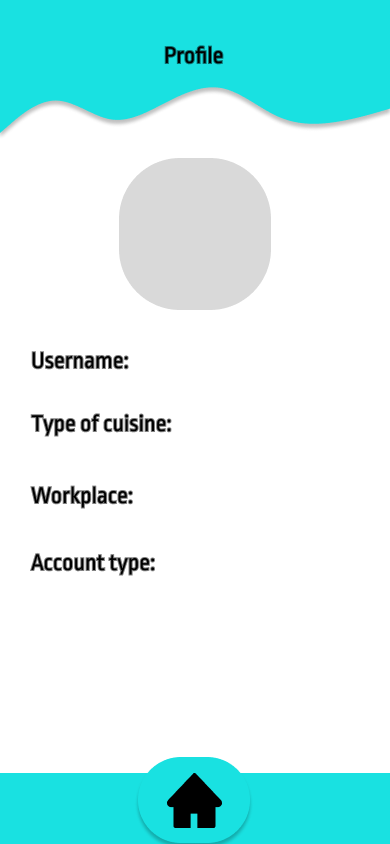
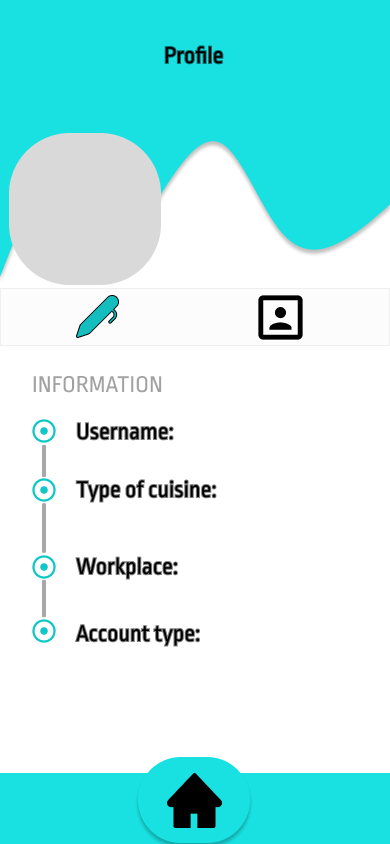
caso d'uso: fine prima parte myChef sistemazione bug profilo chef add css

Changed region(s): [[0.0, 0.0924, 1.0, 0.4621], [0.0615, 0.4929, 0.5538, 0.7701], [0.1846, 0.7393, 0.5231, 0.7701]]

diff --git a/src/main/java/com/example/foodo/guiclass/ProfileControllerGUI.java b/src/main/java/com/example/foodo/guiclass/ProfileControllerGUI.java
@@ -1,5 +1,6 @@
 package com.example.foodo.guiclass;
 
+import com.example.foodo.Main;
 import com.example.foodo.controllerappl.ProfileController;
 import com.example.foodo.engineering.Session.Session;
 import com.example.foodo.engineering.Utils.ImageConverterSupport;
@@ -21,6 +22,9 @@ import java.io.IOException;
 import java.util.Objects;
 
 public class ProfileControllerGUI {
+    public Label labelEmail;
+    public Label labelPhone;
+    public Label labelLocation;
     @FXML
     private File file = null;
     @FXML
@@ -33,6 +37,8 @@ public class ProfileControllerGUI {
     private Label labelTypeOfDiet;
     @FXML
     private Label labelAccountType;
+    private ChefBean chefBean;
+
 
     @FXML
     private Label labelWorkplace;
@@ -71,6 +77,7 @@ public class ProfileControllerGUI {
     public void setChefInfoProfile(ChefBean chefBean) throws IOException {
         ProfileController profileController = new ProfileController();
         chefBean= Session.getCurrentSession().getChefBean();
+        //System.out.print(chefBean.getEmail());
         labelUsername.setText(chefBean.getUsername());
         labelTypeOfCuisine.setText(chefBean.getTypeOfCuisine());
         labelWorkplace.setText(chefBean.getWorkplace());
@@ -82,7 +89,7 @@ public class ProfileControllerGUI {
     public void BackHome(ActionEvent event) throws IOException {
         //ProfileControllerGUI profileControllerGUI = fxmlLoader.getController();
         if((userBean= Session.getCurrentSession().getUserBean()) != null){
-            root = FXMLLoader.load(Objects.requireNonNull(getClass().getResource("/guiclass/sceneProfile")));
+            root = FXMLLoader.load(Objects.requireNonNull(getClass().getResource("/guiclass/sceneHomeUser.fxml")));
             scene = new Scene(root);
             stage = (Stage)((Node)event.getSource()).getScene().getWindow();
             stage.setScene(scene);
@@ -98,18 +105,32 @@ public class ProfileControllerGUI {
     }
 
     public void showInfo(ActionEvent event) throws IOException {
-        root = FXMLLoader.load(Objects.requireNonNull(getClass().getResource("/guiclass/sceneProfile.fxml")));
+        FXMLLoader fxmlLoader = new FXMLLoader(Main.class.getResource("/guiclass/sceneChefProfile.fxml"));
+        Parent root = fxmlLoader.load();
         scene = new Scene(root);
+        ProfileControllerGUI profileControllerGUI = fxmlLoader.getController();
+        profileControllerGUI.setChefInfoProfile(chefBean);
         stage = (Stage)((Node)event.getSource()).getScene().getWindow();
         stage.setScene(scene);
         stage.show();
     }
 
     public void showContact(ActionEvent event) throws IOException {
-        root = FXMLLoader.load(Objects.requireNonNull(getClass().getResource("/guiclass/sceneProfile2.fxml")));
+        FXMLLoader fxmlLoader = new FXMLLoader(Main.class.getResource("/guiclass/sceneProfile2.fxml"));
+        Parent root = fxmlLoader.load();
         scene = new Scene(root);
+        ProfileControllerGUI profileControllerGUI = fxmlLoader.getController();
+        profileControllerGUI.setChefInfoProfile2(chefBean);
         stage = (Stage)((Node)event.getSource()).getScene().getWindow();
         stage.setScene(scene);
         stage.show();
+    }
+
+    private void setChefInfoProfile2(ChefBean chefBean) {
+        ProfileController profileController = new ProfileController();
+        chefBean= Session.getCurrentSession().getChefBean();
+        labelEmail.setText(chefBean.getEmail());
+        labelPhone.setText(chefBean.getNumber());
+        labelLocation.setText(chefBean.getLocation());
     }
 }

diff --git a/src/main/java/com/example/foodo/guiclass/ItemControllerGUI.java b/src/main/java/com/example/foodo/guiclass/ItemControllerGUI.java
@@ -3,17 +3,29 @@ package com.example.foodo.guiclass;
 import com.example.foodo.engineering.Utils.MyListener;
 import com.example.foodo.engineering.bean.RecipeItemBean;
 import javafx.fxml.FXML;
+import javafx.fxml.FXMLLoader;
+import javafx.scene.Node;
+import javafx.scene.Parent;
+import javafx.scene.Scene;
 import javafx.scene.control.Label;
 import javafx.scene.image.Image;
 import javafx.scene.image.ImageView;
+import javafx.scene.input.MouseEvent;
+import javafx.stage.Stage;
 
-public class ItemController {
+import java.io.IOException;
+import java.util.Objects;
+
+public class ItemControllerGUI {
     @FXML
     public Label recipeNameLabel;
     @FXML
     public Label chefLabel;
     @FXML
     public ImageView img;
+    private Parent root;
+    private Stage stage;
+    private Scene scene;
 
     private RecipeItemBean recipeItemBean;
     private MyListener myListener;
@@ -27,5 +39,13 @@ public class ItemController {
         Image image = new Image(path);
         img.setImage(image);
 
+    }
+
+    public void showRecipeDet(MouseEvent event) throws IOException {
+        root = FXMLLoader.load(Objects.requireNonNull(getClass().getResource("/guiclass/recipeDet1.fxml")));
+        scene = new Scene(root);
+        stage = (Stage)((Node)event.getSource()).getScene().getWindow();
+        stage.setScene(scene);
+        stage.show();
     }
 }

diff --git a/src/main/java/com/example/foodo/engineering/bean/ChefBean.java b/src/main/java/com/example/foodo/engineering/bean/ChefBean.java
@@ -4,16 +4,47 @@ public class ChefBean {
     private String username;
     private String typeOfCuisine;
     private String workplace;
+    private String email;
+    private String number;
+    private  String location;
+
+    public String getEmail() {
+        return email;
+    }
+
+    public void setEmail(String email) {
+        this.email = email;
+    }
+
+    public String getNumber() {
+        return number;
+    }
+
+    public void setNumber(String number) {
+        this.number = number;
+    }
+
+    public String getLocation() {
+        return location;
+    }
+
+    public void setLocation(String location) {
+        this.location = location;
+    }
+
     private int profileType;
 
     public ChefBean() {}
 
 
-    public ChefBean(String username,String typeOfCuisine, String workplace, int profileType){
+    public ChefBean(String username,String typeOfCuisine, String workplace, int profileType, String email, String number, String location){
         this.username = username;
         this.typeOfCuisine = typeOfCuisine;
         this.workplace = workplace;
         this.profileType = profileType;
+        this.email = email;
+        this.number = number;
+        this.location = location;
     }
 
     public String getUsername() {

diff --git a/src/main/java/com/example/foodo/model/ChefModel.java b/src/main/java/com/example/foodo/model/ChefModel.java
@@ -3,14 +3,45 @@ package com.example.foodo.model;
 public class ChefModel extends GenericUserModel{
     String typeOfCuisine;
     String workplace;
+    String email;
+    String number;
+    String location;
+
+    public String getEmail() {
+        return email;
+    }
+
+    public void setEmail(String email) {
+        this.email = email;
+    }
+
+    public String getNumber() {
+        return number;
+    }
+
+    public void setNumber(String number) {
+        this.number = number;
+    }
+
+    public String getLocation() {
+        return location;
+    }
+
+    public void setLocation(String location) {
+        this.location = location;
+    }
+
     public ChefModel(String username){
         super(username);
 
     }
-    public ChefModel(String username, String typeOfCuisine, String workplace, int profileType){
+    public ChefModel(String username, String typeOfCuisine, String workplace, int profileType, String email, String number, String location){
         super(username,profileType);
         this.typeOfCuisine=typeOfCuisine;
         this.workplace=workplace;
+        this.email = email;
+        this.number = number;
+        this.location = location;
     }
 
     public String getTypeOfCuisine() {

diff --git a/src/main/java/com/example/foodo/guiclass/MyChefControllerGUI.java b/src/main/java/com/example/foodo/guiclass/MyChefControllerGUI.java
@@ -4,7 +4,6 @@ import com.example.foodo.controllerappl.MyChefController;
 import com.example.foodo.engineering.Utils.MyListener;
 import com.example.foodo.engineering.bean.RecipeItemBean;
 import com.example.foodo.engineering.exception.ConnectionDbException;
-import com.example.foodo.model.RecipeItemModel;
 import javafx.event.ActionEvent;
 import javafx.fxml.FXMLLoader;
 import javafx.fxml.Initializable;
@@ -17,7 +16,6 @@ import javafx.scene.layout.GridPane;
 import javafx.scene.layout.Region;
 import javafx.stage.Stage;
 
-import java.awt.*;
 import java.io.IOException;
 import java.net.URL;
 import java.sql.SQLException;
@@ -74,7 +72,7 @@ public class MyChefControllerGUI implements Initializable {
                 fxmlLoader.setLocation(getClass().getResource("/guiclass/recipeItem.fxml"));
                 AnchorPane anchorPane = fxmlLoader.load();
 
-                ItemController itemController = fxmlLoader.getController();
+                ItemControllerGUI itemController = fxmlLoader.getController();
                 itemController.setData(recipeItembeanList.get(i),myListener);
 
                 if (column == 2) {

diff --git a/src/main/java/com/example/foodo/engineering/dao/ChefDAO.java b/src/main/java/com/example/foodo/engineering/dao/ChefDAO.java
@@ -14,6 +14,9 @@ public class ChefDAO {
 
     private static final String CUISINE="typeOfCuisine";
     private static final String WORKPLACE="workplace";
+    private static final String EMAIL="email";
+    private static final String NUMBER="number";
+    private static final String LOCATION="location";
     //private static final Integer CHEFTYPE="";
 
 
@@ -52,7 +55,10 @@ public class ChefDAO {
             //int chefTypeOfUser=resultSet.getInt(CHEFTYPE);
             String typeOfCuisine=resultSet.getString(CUISINE);
             String workplace=resultSet.getString(WORKPLACE);
-            chefModel=new ChefModel(username, typeOfCuisine, workplace, 1);
+            String email = resultSet.getString(EMAIL);
+            String number = resultSet.getString(NUMBER);
+            String location = resultSet.getString(LOCATION);
+            chefModel=new ChefModel(username, typeOfCuisine, workplace, 1, email, number, location);
 
         }
         catch(Exception e){

diff --git a/src/main/java/com/example/foodo/guiclass/ChefMainPageControllerGUI.java b/src/main/java/com/example/foodo/guiclass/ChefMainPageControllerGUI.java
@@ -1,6 +1,7 @@
 package com.example.foodo.guiclass;
 
 import com.example.foodo.Main;
+import com.example.foodo.engineering.Session.Session;
 import com.example.foodo.engineering.bean.ChefBean;
 import javafx.event.ActionEvent;
 import javafx.fxml.FXML;
@@ -60,6 +61,7 @@ public class ChefMainPageControllerGUI {
         FXMLLoader fxmlLoader = new FXMLLoader(Main.class.getResource("/guiclass/sceneChefProfile.fxml"));
         Parent root = fxmlLoader.load();
         scene = new Scene(root);
+        ChefBean chefBean = Session.getCurrentSession().getChefBean();
         ProfileControllerGUI profileControllerGUI = fxmlLoader.getController();
         profileControllerGUI.setChefInfoProfile(chefBean);
         stage = (Stage)((Node)event.getSource()).getScene().getWindow();

diff --git a/src/main/java/com/example/foodo/controllerappl/LoginController.java b/src/main/java/com/example/foodo/controllerappl/LoginController.java
@@ -23,7 +23,7 @@ public class LoginController {
     public void completeChefLogin(LoginBean loginBean) throws NotFoundException {
         ChefDAO chefDao=new ChefDAO();
         ChefModel chefModel = chefDao.retrieveChefByUsername(loginBean.getUsername());
-        ChefBean chefBean = new ChefBean(chefModel.getUsername(), chefModel.getTypeOfCuisine(), chefModel.getWorkplace(), chefModel.getProfileType());
+        ChefBean chefBean = new ChefBean(chefModel.getUsername(), chefModel.getTypeOfCuisine(), chefModel.getWorkplace(), chefModel.getProfileType(), chefModel.getEmail(), chefModel.getNumber(), chefModel.getLocation());
         Session.setSessionInstance(chefBean);
     }
 

diff --git a/src/main/java/com/example/foodo/guiclass/MyRecipeControllerGUI.java b/src/main/java/com/example/foodo/guiclass/MyRecipeControllerGUI.java
@@ -30,7 +30,7 @@ public class MyRecipeControllerGUI implements Initializable {
     }
 
     public void backHome(ActionEvent event) throws IOException {
-        Parent scenePantryParent = FXMLLoader.load(getClass().getResource("/guiclass/sceneHomeUser.fxml"));
+        Parent scenePantryParent = FXMLLoader.load(getClass().getResource("/guiclass/chefMainPage.fxml"));
         Scene sceneMainView = new Scene(scenePantryParent);
 
         Stage window = (Stage) ((Node)event.getSource()).getScene().getWindow();

diff --git a/src/main/java/com/example/foodo/guiclass/HomeUserControllerGUI.java b/src/main/java/com/example/foodo/guiclass/HomeUserControllerGUI.java
@@ -38,9 +38,6 @@ public class HomeUserControllerGUI {
         ProfileControllerGUI profileControllerGUI = fxmlLoader.getController();
         if((userBean= Session.getCurrentSession().getUserBean()) != null){
             profileControllerGUI.setUserInfoProfile(userBean);
-        }else{
-            ChefBean chefBean = Session.getCurrentSession().getChefBean();
-            profileControllerGUI.setChefInfoProfile(chefBean);
         }
 
 

diff --git a/src/main/java/com/example/foodo/guiclass/RecipeDetControllerGUI.java b/src/main/java/com/example/foodo/guiclass/RecipeDetControllerGUI.java
@@ -1,0 +1,14 @@
+package com.example.foodo.guiclass;
+
+import javafx.event.ActionEvent;
+
+public class RecipeDetControllerGUI {
+    public void showDescription(ActionEvent actionEvent) {
+    }
+
+    public void showReview(ActionEvent actionEvent) {
+    }
+
+    public void backMyChef(ActionEvent actionEvent) {
+    }
+}
